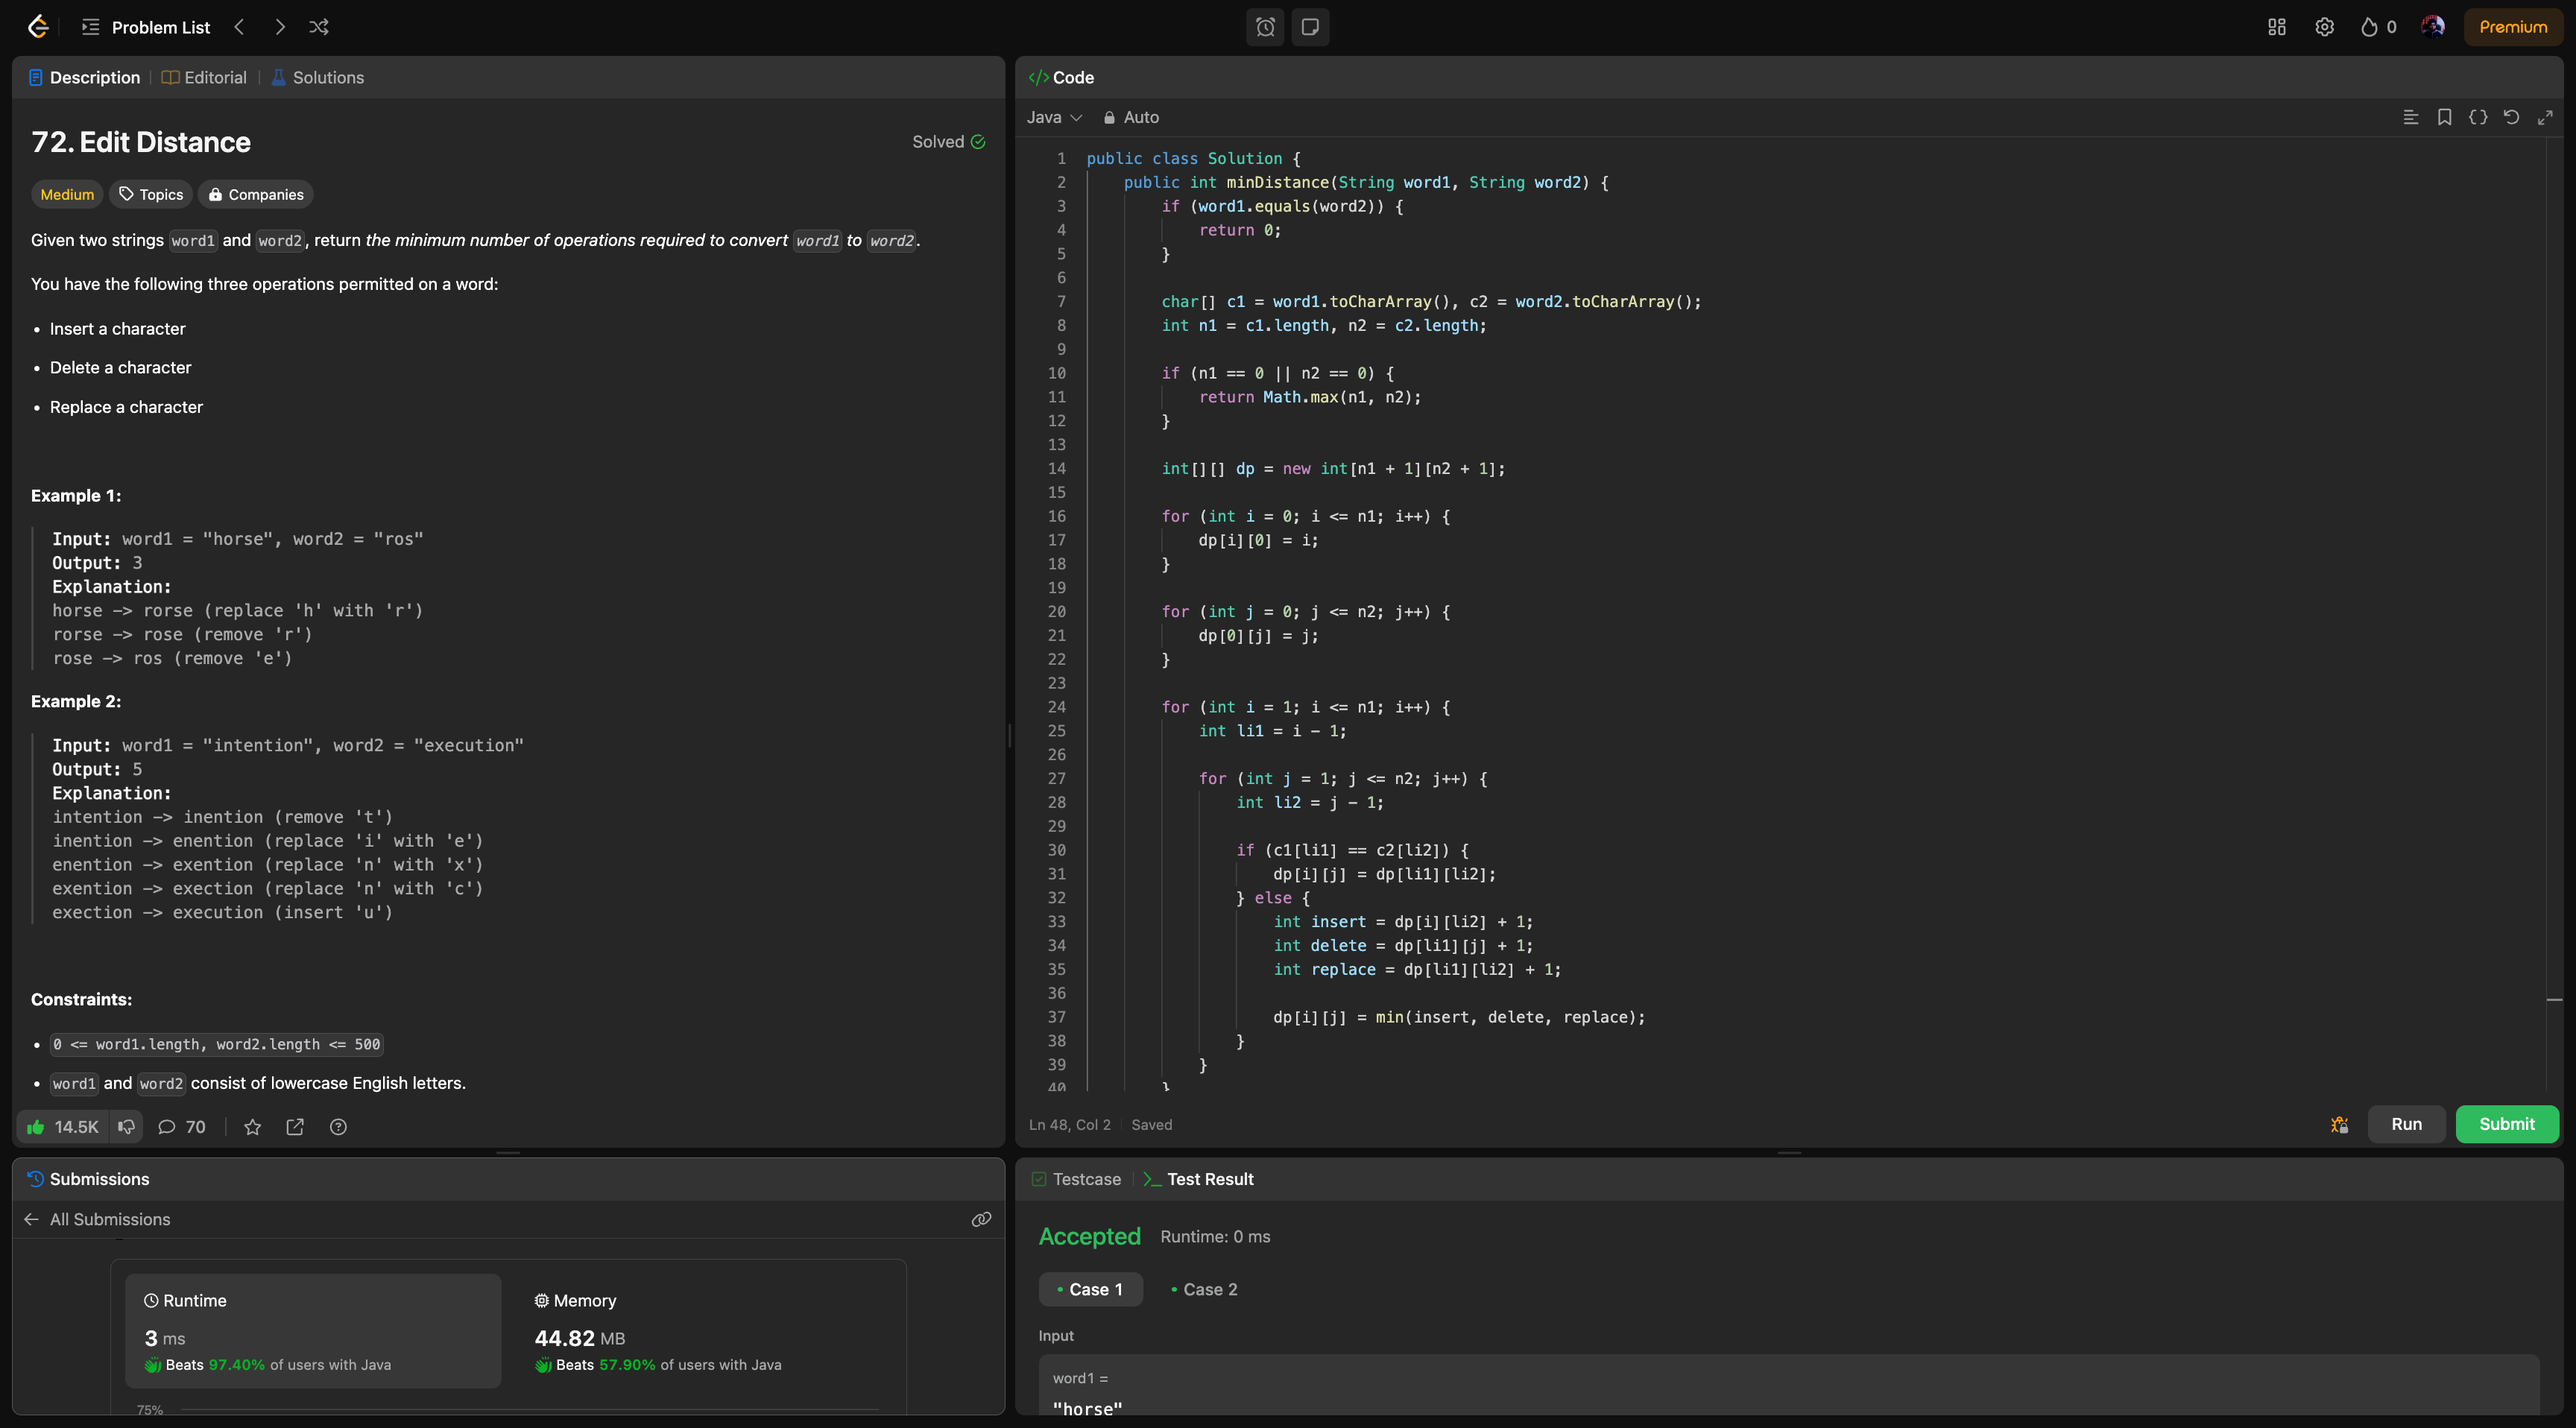
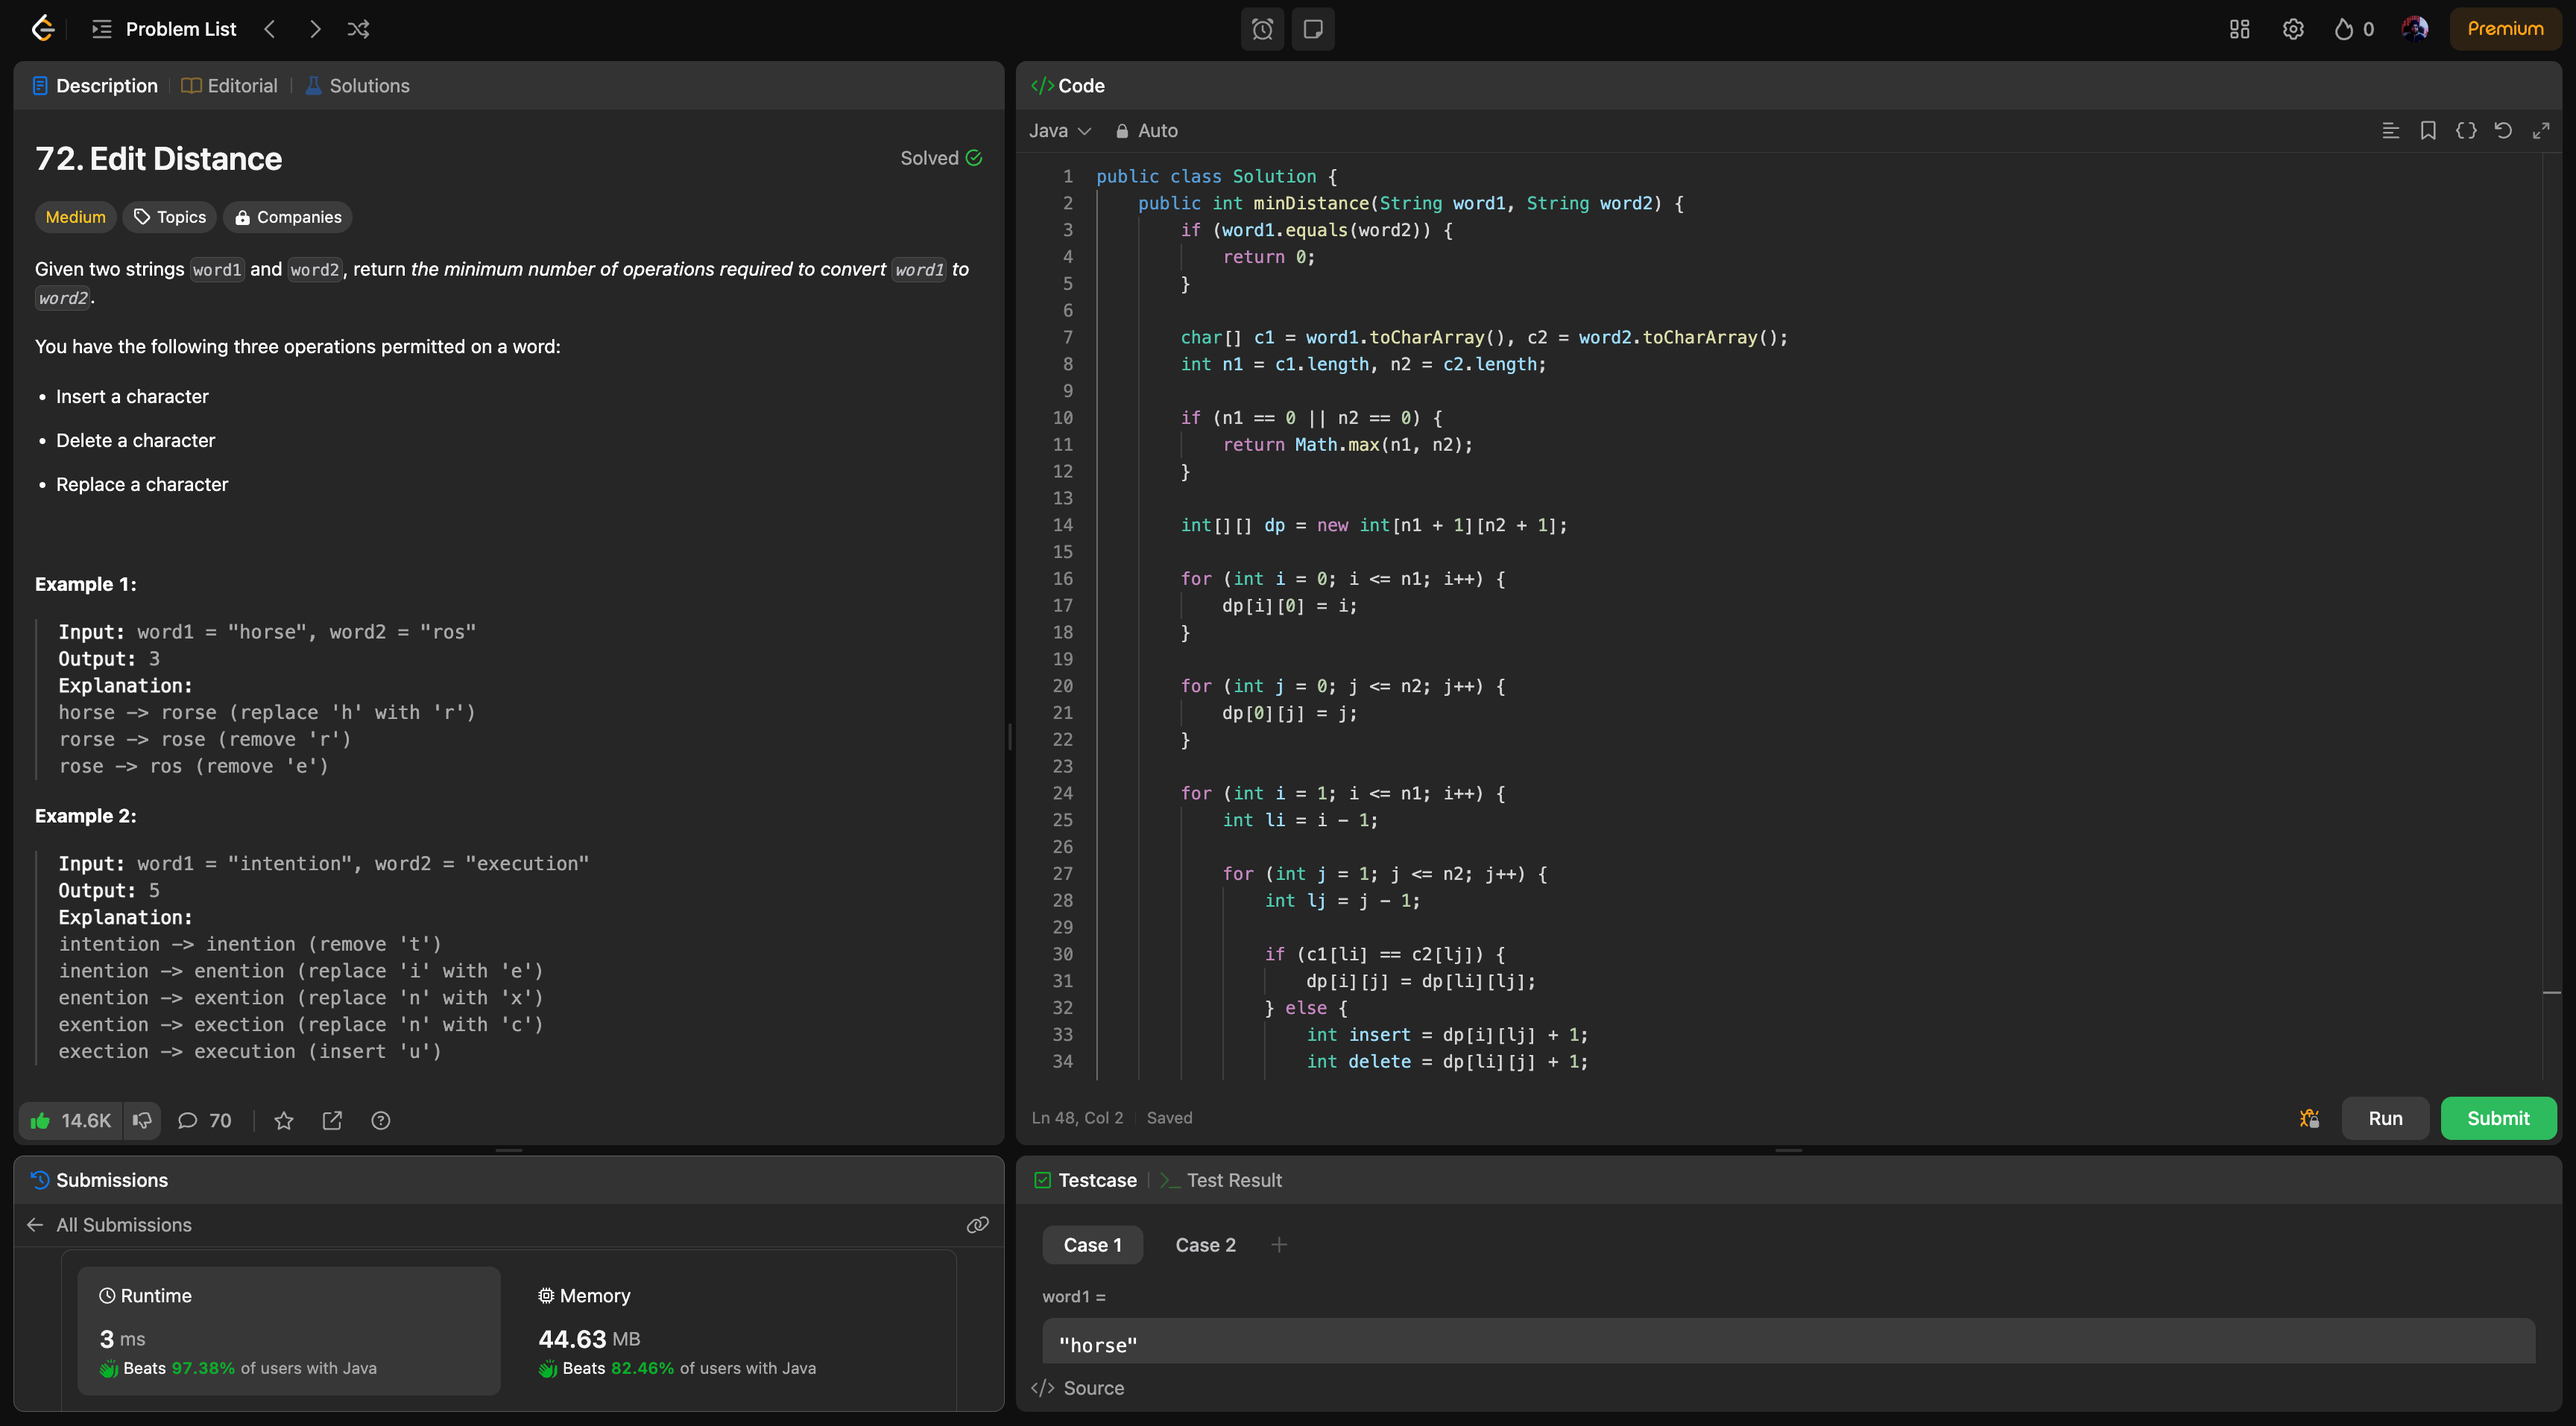
Variable rename: Edit Distance

diff --git a/244-edit-distance/001-solution/Solution.java b/244-edit-distance/001-solution/Solution.java
@@ -33,17 +33,17 @@ public class Solution {
         }
 
         for (int i = 1; i <= n1; i++) {
-            int li1 = i - 1;
+            int li = i - 1;
 
             for (int j = 1; j <= n2; j++) {
-                int li2 = j - 1;
+                int lj = j - 1;
 
-                if (c1[li1] == c2[li2]) {
-                    dp[i][j] = dp[li1][li2];
+                if (c1[li] == c2[lj]) {
+                    dp[i][j] = dp[li][lj];
                 } else {
-                    int insert = dp[i][li2] + 1;
-                    int delete = dp[li1][j] + 1;
-                    int replace = dp[li1][li2] + 1;
+                    int insert = dp[i][lj] + 1;
+                    int delete = dp[li][j] + 1;
+                    int replace = dp[li][lj] + 1;
 
                     dp[i][j] = min(insert, delete, replace);
                 }
